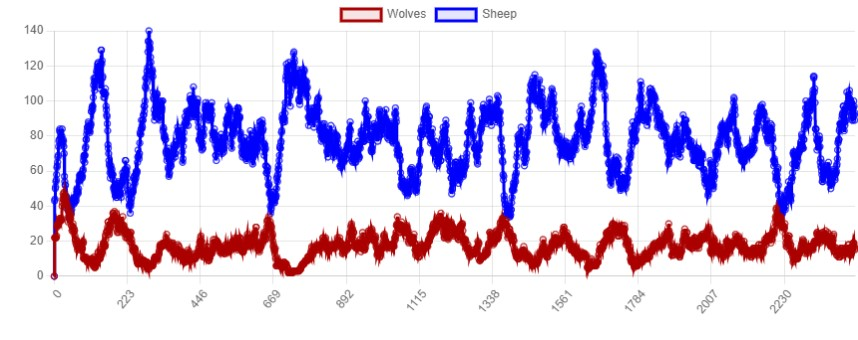
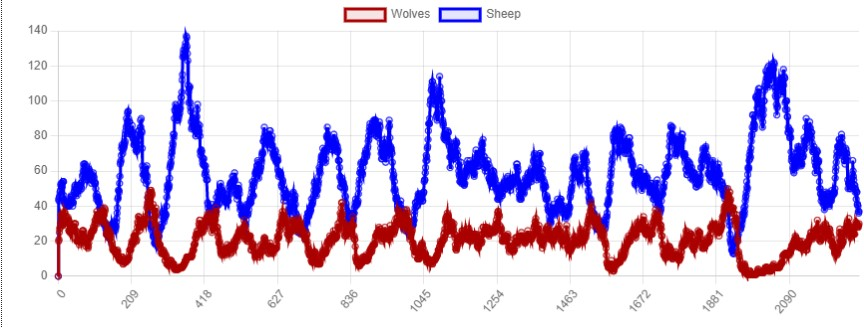
minor updates

diff --git a/0_prey_predator_start/code/prey_predator/agents.py b/0_prey_predator_start/code/prey_predator/agents.py
@@ -45,6 +45,7 @@ class Sheep(RandomWalker):
                     # If grass is fully grown, eat it and increment energy by the gain from food
                     if mates.fully_grown:
                         self.energy += self.model.sheep_gain_from_food
+                        # Now the grass patch is not grown
                         mates.fully_grown = False
           
         # Reproduction step:
@@ -102,12 +103,10 @@ class Wolf(RandomWalker):
         # Eating
         cellmates = self.model.grid.get_cell_list_contents([self.pos])  # get the agents in the wolf's current cell
         for mate in cellmates:
-            if isinstance(mate, Sheep) and self.energy < 15:  # if the wolf is hungry and there is a sheep in the cell
+            if isinstance(mate, Sheep) and self.energy < self.model.wolf_gain_from_food*2:  # if the wolf is hungry and there is a sheep in the cell
                 self.energy += self.model.wolf_gain_from_food  # increase the wolf's energy
                 self.model.grid.remove_agent(mate)  # remove the sheep from the grid
                 self.model.schedule.remove(mate)  # remove the sheep from the schedule
-                break  # stop eating after eating one sheep
-
 
 
 class GrassPatch(Agent):
@@ -140,6 +139,7 @@ class GrassPatch(Agent):
             if self.countdown == 0:
                 # Regrow the grass
                 self.fully_grown = True
+                # Reset the timer
                 self.countdown = self.model.grass_regrowth_time
 
 

diff --git a/0_prey_predator_start/code/prey_predator/server.py b/0_prey_predator_start/code/prey_predator/server.py
@@ -31,14 +31,14 @@ def wolf_sheep_portrayal(agent):
         if agent.fully_grown:
         # ... to be completed
             portrayal = {"Shape": "rect",
-                        "Color": "green",
+                        "Color": "#008631",
                         "Filled": "true",
                         "Layer": 0,
                         "w": 1,
                         "h": 1}
         else:
             portrayal = {"Shape": "rect",
-                        "Color": "#ffffe0",
+                        "Color": "#5ced73",
                         "Filled": "true",
                         "Layer": 0,
                         "w": 1,

diff --git a/README.md b/README.md
@@ -33,7 +33,7 @@ For the wolves agents here are the choices we have made:
 Each turn a wolf: 
 - Walks around with *random_move()* method.
 - Reproduces (asexually) if the probability is met and then see its energy divided by 2.
-- Eats sheep if he can reach one, only if he is hungry (energy below a certain value) and only one at the time.
+- Eats sheep if he can reach one, only if he is hungry (energy below a certain value) and maximum two on one turn.
 - Dies if its energy is too low.
 
 </br>
